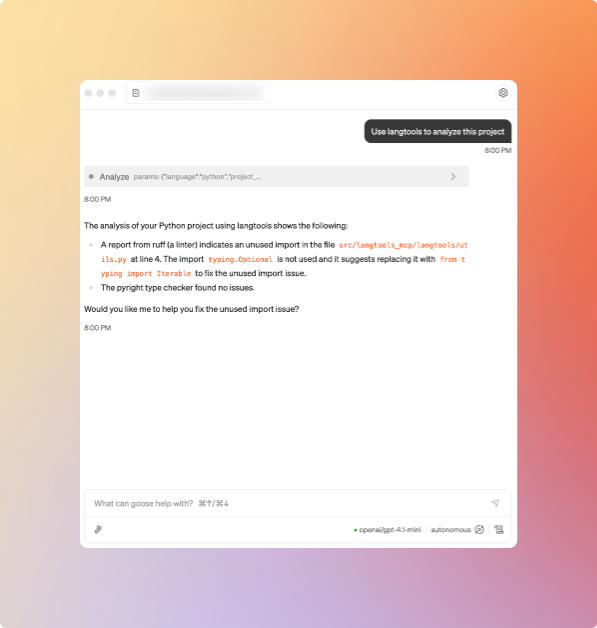
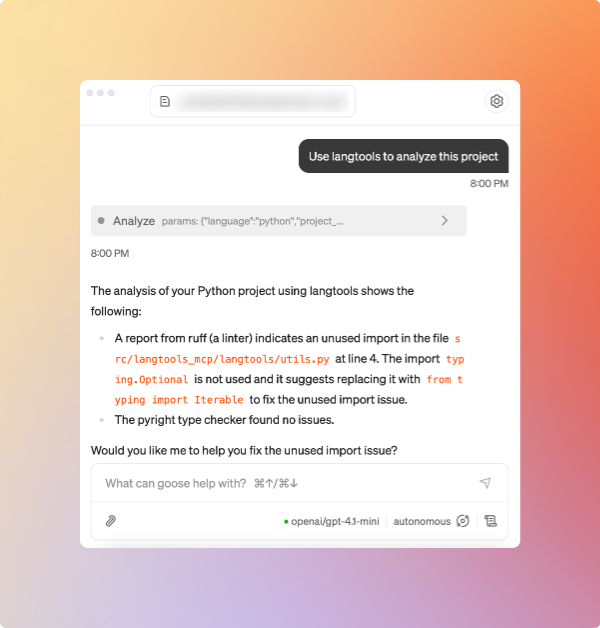
another asset update

diff --git a/README.md b/README.md
@@ -42,7 +42,7 @@ langtools:
 ```
 
 <p align="center">
-<img src="./assets/goose_sample.png" style="width: 60%;">
+<img src="./assets/goose_sample.png" style="width: 75%;">
 </p>
 
 #### Configuration Options
